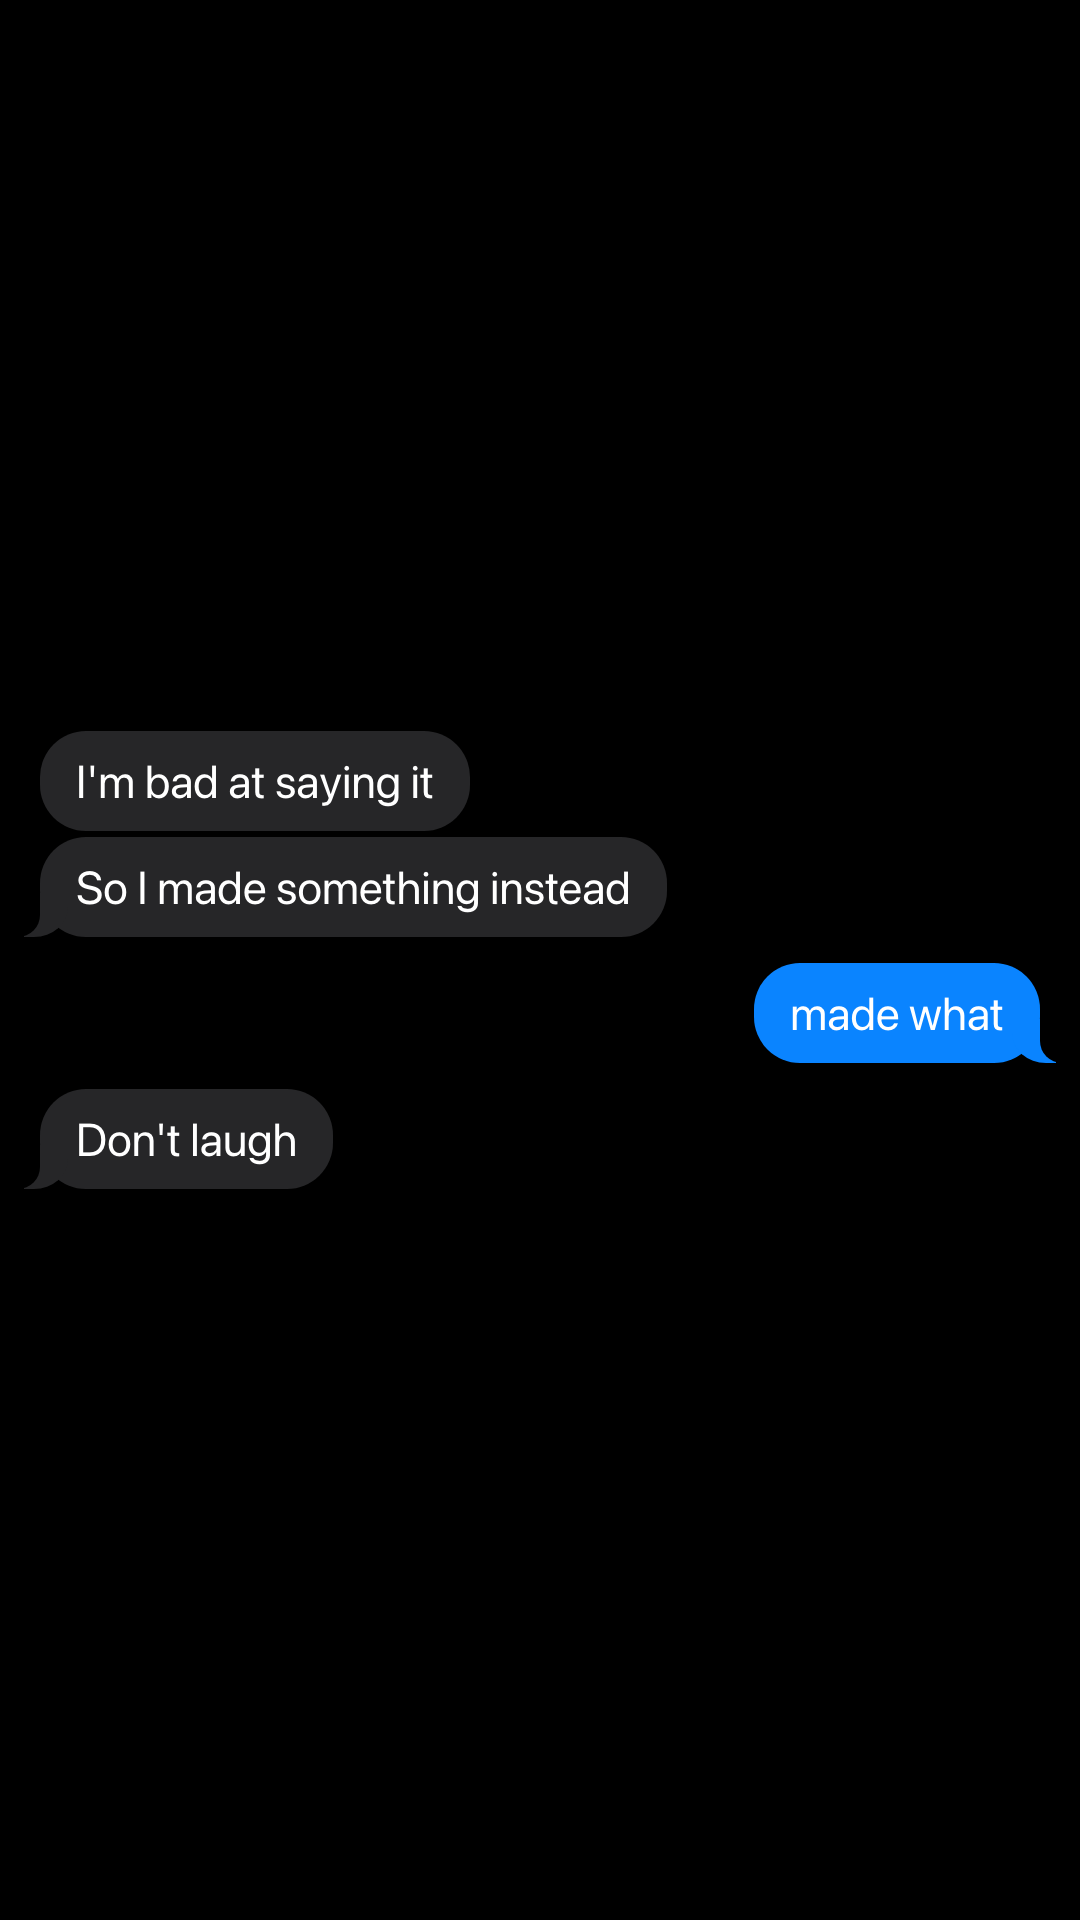
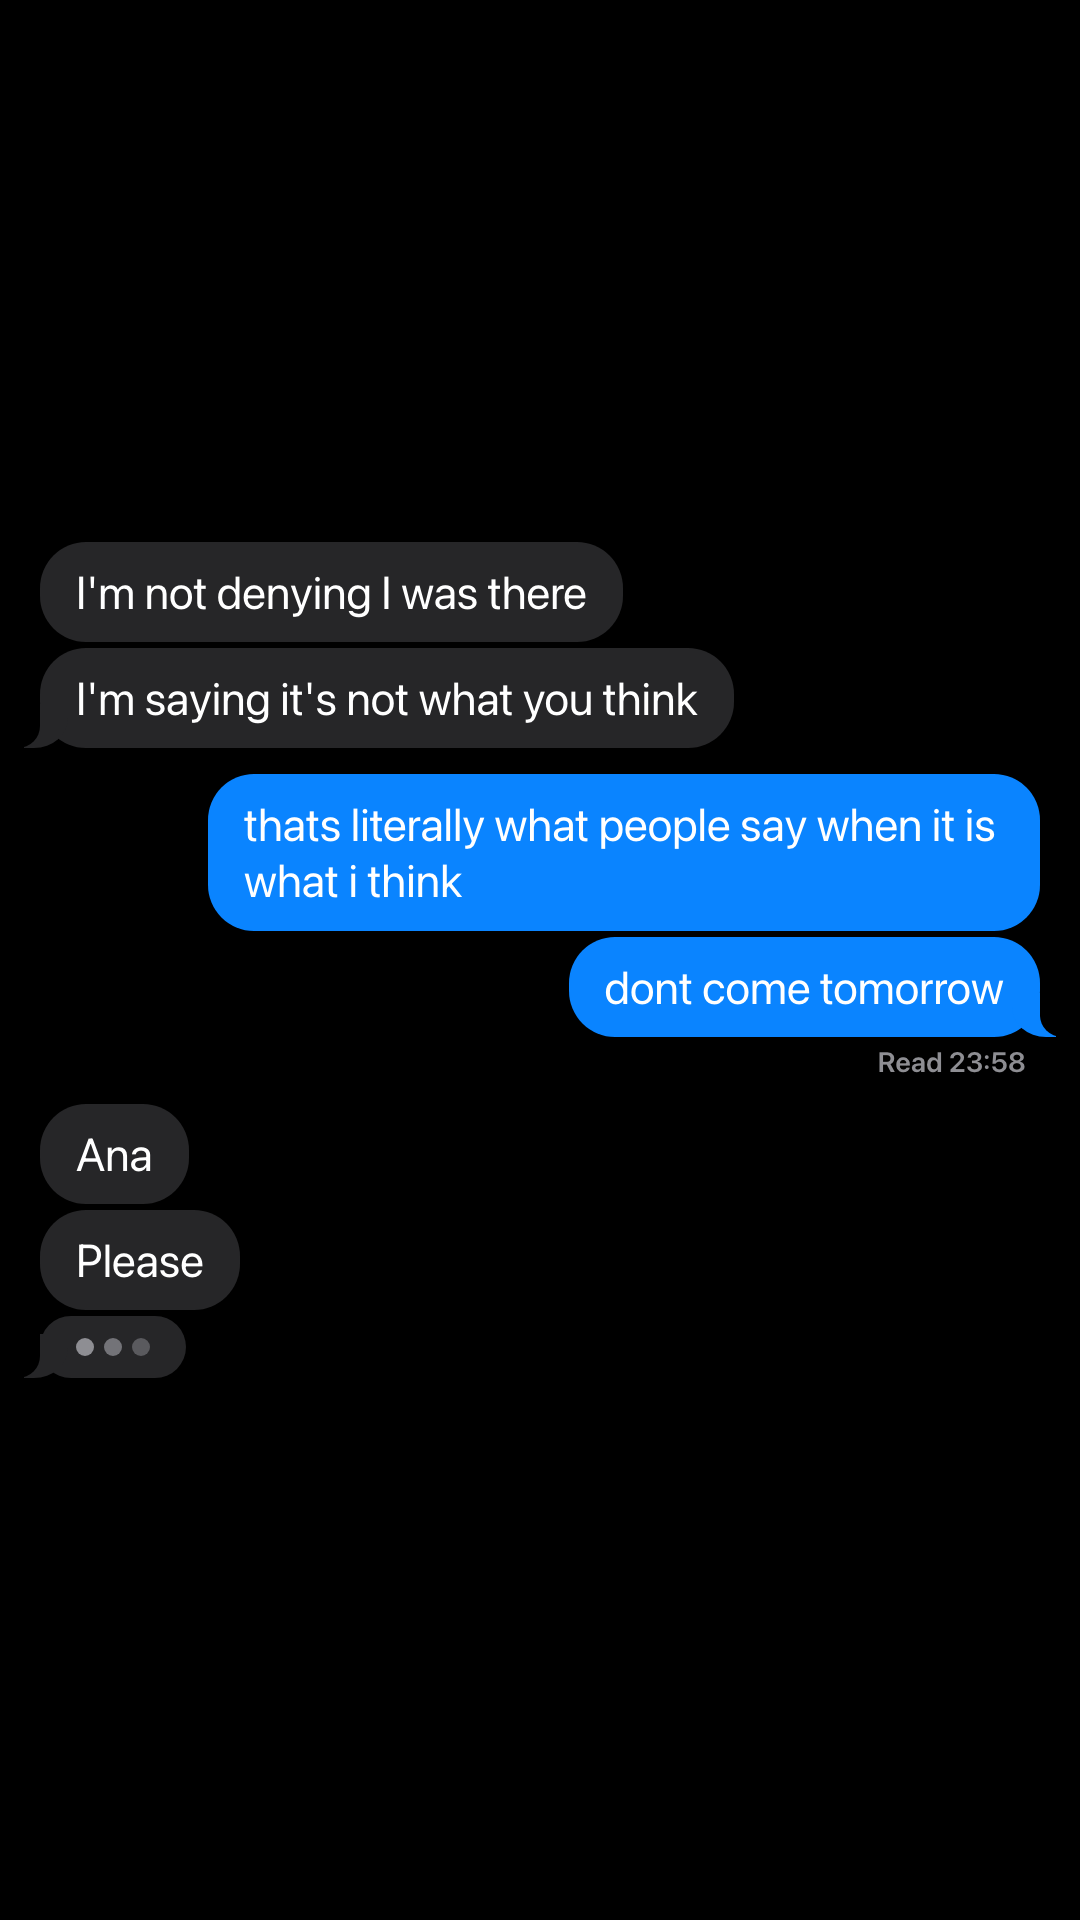
marketing: carousel 01 v3, the "who was that girl" storyline
Nine chat slides with read receipts, typing and mid-thread timestamps,
a 126-word apology letter, photo captions and the editor field values.

Changed region(s): [[0.0306, 0.2812, 0.9778, 0.5625], [0.0306, 0.5625, 0.3056, 0.7188]]

diff --git a/docs/marketing/tiktok-01/SCRIPT.md b/docs/marketing/tiktok-01/SCRIPT.md
@@ -1,79 +1,102 @@
-# TikTok carousel 01 · "we had a fight. then this arrived at 00:41."
+# TikTok carousel 01 · "who was that girl"
 
-Format: 10-slide photo carousel (TikTok "Photo" mode, swipe, 1080×1920). Her point of
-view (blue bubbles). A small fight after dinner, a boyfriend who never says things, and a
-gift instead of an apology. The product is never named out loud: the domain only appears
-inside the link preview on slide 5, the way it would in a real thread, and in your caption.
+Format: 13-slide photo carousel (TikTok "Photo" mode, 1080×1920), her point of view (blue
+bubbles). A friend sends a photo of him with his arm around a girl at the station. He
+denies nothing and explains nothing, which reads as guilt. Then a link. The girl was his
+half-sister, who came to help him make the gift, and there's a second gift that unlocks on
+Sunday. The product is never named in the chat; the domain only appears inside the link
+preview on slide 7, the way it would in a real thread.
 
-Why this one travels: slide 1 is tension you can read in a second ("You went quiet after
-dinner"), every slide ends unresolved, the letter says the thing people wish their partner
-would say, and the last slide is a door, not an ad.
+Why this one travels: slide 1 is a fight everyone has had or watched ("who was that
+girl"), the denial sounds guilty, the twist only lands after the gift, and the last slide is
+her going over at 10pm. Comments will argue about the sister for days, which is the point.
 
 ## Slides
 
-Slides 1–5 and 10 are rendered: `slide-01.png` … `slide-06.png` (slide-06.png is slide 10 of
-the carousel). Edit `script.json` and re-run:
-`node scripts/tiktok-slides.mjs docs/marketing/tiktok-01/script.json docs/marketing/tiktok-01`
+Chat slides are rendered: `slide-01.png` … `slide-09.png`. Slides 8 to 11 of the carousel
+are the gift (see below), so the file order maps like this:
 
-| # | What | Content |
+| # | File | Content |
 | --- | --- | --- |
-| 1 | chat | "You still awake" / "yeah" / "You went quiet after dinner" / "i'm fine" (Today 00:41) |
-| 2 | chat | "You only say fine when you're not" / "i'm not mad" / "i'm just tired of being the only one who says things" / "I know" |
-| 3 | chat | "I'm bad at saying it" / "So I made something instead" / "made what" / "Don't laugh" |
-| 4 | chat | "why would i laugh" / "It's a lot" / "Like properly a lot" / "send it" / "Promise you'll read the whole thing" |
-| 5 | chat | "promise" / link card **For Ana · tryethos.io** / "Sound on" / "And put your phone down after. I'm coming over" |
-| 6 | gift | The Letter, closed: envelope, wax seal, "For Ana". TikTok text sticker `Continue →` bottom right, small. |
-| 7 | gift | The letter open, handwriting fully typed. Text below. |
-| 8 | gift | The photos on the desk with captions. Six photos, captions below. |
-| 9 | gift | The song: the Vinyl screen with the record and the title, or the end screen with the music credit. Sticker: `it plays the whole time` |
-| 10 | chat | "i read it three times" / "i'm crying" / "you don't get to say you're bad at this anymore" / "I'm downstairs" / "what" / "Open the door" (Today 01:07) |
+| 1 | slide-01 | Yesterday 23:52 · "who was that girl" / "at the station" / "dont say what girl" / "What girl" / "im not doing this" |
+| 2 | slide-02 | "Ana it's not what you think" / "you had your arm around her" / "lea sent me the pic" / "Lea sent you a pic??" / "so you dont deny it" |
+| 3 | slide-03 | "I'm not denying I was there" / "I'm saying it's not what you think" / "thats literally what people say when it is what i think" / "dont come tomorrow" (Read 23:58) / "Ana" / "Please" / typing… |
+| 4 | slide-04 | Today 07:14 · "You up" / "I didn't sleep" / "Can I just explain" · 09:31 · "no" / "It was my sister" / "you dont have a sister loool" |
+| 5 | slide-05 | "Half sister. Nora. From my dad" / "I told you about her once and you said "cute" and forgot" / "...." / "why was your arm around her at 11pm at a train station" / "Because she came from Valencia to help me with something" / "with what" |
+| 6 | slide-06 | "I can't tell you yet" / "wow ok" / "so convenient" / "istg if this is a lie" (Read 09:40) / typing… |
+| 7 | slide-07 | Today 21:58 · "Ok" / "Just look at this. Then you can block me" / link card **Just look at this first · tryethos.io** / "what is this" / "It's what Nora came to help me with" / "I'm bad at this stuff. She did the photos" |
+| 8 | gift | The Letter, closed: envelope, wax seal, "For Ana". Sticker `Continue →`. |
+| 9 | gift | The letter, fully typed. Text below. |
+| 10 | gift | The photos with captions. Six photos, captions below. The first one is the twist. |
+| 11 | gift | The end screen with "A voice message from Marco · Tap to listen" and the final surprise line, or the Vinyl screen with the song. |
+| 12 | slide-08 | Today 22:31 · "im literally sobbing" / "your SISTER" / "why didnt you just say" / "Because you'd have asked what she was helping with" / "And I wanted sunday to be a surprise" / "what's sunday" / "There's a second one. It unlocks sunday" |
+| 13 | slide-09 | "i hate you" / "im coming over" / "It's 10pm" / "i said what i said" / "Door's open" / "tell nora i owe her a coffee loool" / "She says two" |
 
-### The letter (slide 7), 108 words
+Regenerate after editing `script.json`:
+`node scripts/tiktok-slides.mjs docs/marketing/tiktok-01/script.json docs/marketing/tiktok-01`
+(supports `"status": "Read 23:58"` under a blue bubble, `{ "ts": "Today 09:31" }` for a
+time gap, and `{ "from": "them", "typing": true }` for the dots.)
 
-> Ana. You said tonight that I don't say things. You're right, and I hate that you're
-> right. So here they are, in order. I fell for you on the second date, when you cried at
-> the dog outside the pharmacy. I think about the night you said "maybe we're done" more
-> than I think about anything, and we weren't done, we were just tired. I have never been
-> more sure of anything than I am of you, and I have never once said it out loud. That
-> stops tonight. I'm not asking you to forgive the quiet. I'm asking you to read this
-> twice. I'm on my way.
+### The letter (slide 9), 126 words. Paste into Message; Greeting stays empty.
 
-Keep the pharmacy dog. One odd, specific detail is what makes the whole thing believable.
+> I know exactly how the station looked. If Lea had sent me that photo of you, I'd have
+> been worse than you were. So here's all of it, in order, because I should have said it
+> at 23:52 instead of "what girl".
+>
+> Nora is my sister. She came from Valencia for two days because every time I try to write
+> to you I delete it, and she doesn't. She chose the photos. She said the one of you asleep
+> on the train was the one, and she's right.
+>
+> I'm not good at saying things. I'm going to get better at it, and this is the first one:
+> I have never once looked at anyone the way I look at you when you're not watching.
+>
+> I'm sorry for the silence. I'm not sorry for the surprise.
 
-### The six photos (slide 8), captions
+Sign-off: `Nora says hi,` (it lands under the letter with his name, and it's the punchline).
 
-Phone photos, not a shoot: one blurry, one badly lit, one where nobody looks at the camera.
+Final surprise (Extras → Final surprise, on): `Sunday, 11am. Wear the green thing.`
 
-1. A dog outside a shop, from a distance. *the second date. the pharmacy dog.*
-2. A dark street or a parked car at night. *the night we almost ended it. we didn't.*
-3. Her asleep against a train window. *you, asleep on the train*
-4. A messy flat in morning light. *the flat, the first morning*
-5. A selfie she once sent. *the one you sent when I was away*
-6. Her building's door at night, taken from the street. *00:58. outside.*
+### The six photos (slide 10), captions
 
-### Making the gift (10 minutes)
+Phone photos, not a shoot. The first photo is the whole twist, so it has to look like the
+"evidence": him and a girl, side by side, arm around her, at a station at night.
 
-tryethos.io → The Letter → "Ana" / "Marco" (or real names) → paste the letter → the six
-photos with the captions → Music → A real song → pick the song → publish. Your account
-has everything unlocked. Open the link on your phone, sound on, screen-record from the seal
-to the end, and take slides 6–9 as frames from that recording.
+1. Him and Nora at the station, the same angle Lea's photo would have. *nora. my sister. the arm-around-her at the station.*
+2. Her asleep against a train window. *you asleep on the train. nora says this is the one*
+3. Two coffees on a table. *first coffee. you ordered for me and got it wrong*
+4. A messy flat, morning light. *the flat, the first morning*
+5. A photo of her she hates, mid-laugh. *the one you hate. keeping it forever*
+6. A blurred photo of something wrapped, or a door. *sunday. wait for it.*
+
+### Editor fields (tryethos.io → The Letter)
+
+Their name `Ana` · Your name `Marco` · Title `Just look at this first` (it's the link
+preview) · Message: the letter above · Typed out · Photos: the six above · Music: A real
+song, something slow ("The Night We Met", "Mystery of Love") · Your voice: record 15
+seconds, low, tired: "Hey. It's me. Nora made me do this part. I'm sorry. I'm outside on
+Sunday at eleven, okay? Okay." · Look: first swatch (wax red), Editorial, seal letter `M`,
+Cream, Walnut, black ink · Greeting empty · Sign-off `Nora says hi,` · Reaction on ·
+Countdown off · Final surprise on with the line above · Password empty · Schedule off ·
+Footer: leave it.
 
 ## Caption, tags, sound
 
 Caption (pick one):
-- "we had a fight. then this arrived at 00:41."
-- "he said he's bad at saying things. read slide 7."
-- "the pharmacy dog. i'm not okay."
+- "my friend sent me a photo of him with another girl. this was 24 hours later."
+- "he said "what girl". read slide 7."
+- "the sister twist. i'm not ok."
 
-Tags: #loveletter #boyfriend #relationship #couplegoals #apology #fyp #romance #crying
+Tags: #boyfriend #relationship #cheating #plottwist #apology #storytime #fyp #couples
 
-Sound: slow, known, a little sad: "The Night We Met", "Francis Forever (slowed)", "Mystery
-of Love", "Apocalypse (slowed)". Volume low; the slides should feel like 1am.
+Sound: slow and a little sad for the first half so the reveal lands: "The Night We Met",
+"Francis Forever (slowed)", "Apocalypse (slowed)". Low volume.
 
-Post between 21:00 and 23:00 local. Don't put the link in the caption of the first
-version; pin a comment with `tryethos.io` once the comments ask "where did he make this".
-Reply to the first 20 comments within the hour. Make three versions with the same first
-four slides and a different letter (birthday, long distance, "I'm sorry") a day apart.
+Post between 21:00 and 23:00. No link in the caption on the first post; pin `tryethos.io`
+as a comment once people ask where he made it (they will ask about the sister first, let
+them). Reply to the first 20 comments within the hour. Make two more versions with the
+same first six slides and a different reveal (he was buying the ring; he was at her mum's
+place planning her birthday) and post them a day apart.
+
 ## Your own chat screenshots, if you want variations
 
 - Most authentic: two phones (or a second Apple ID) in a real iMessage thread, dark mode,
